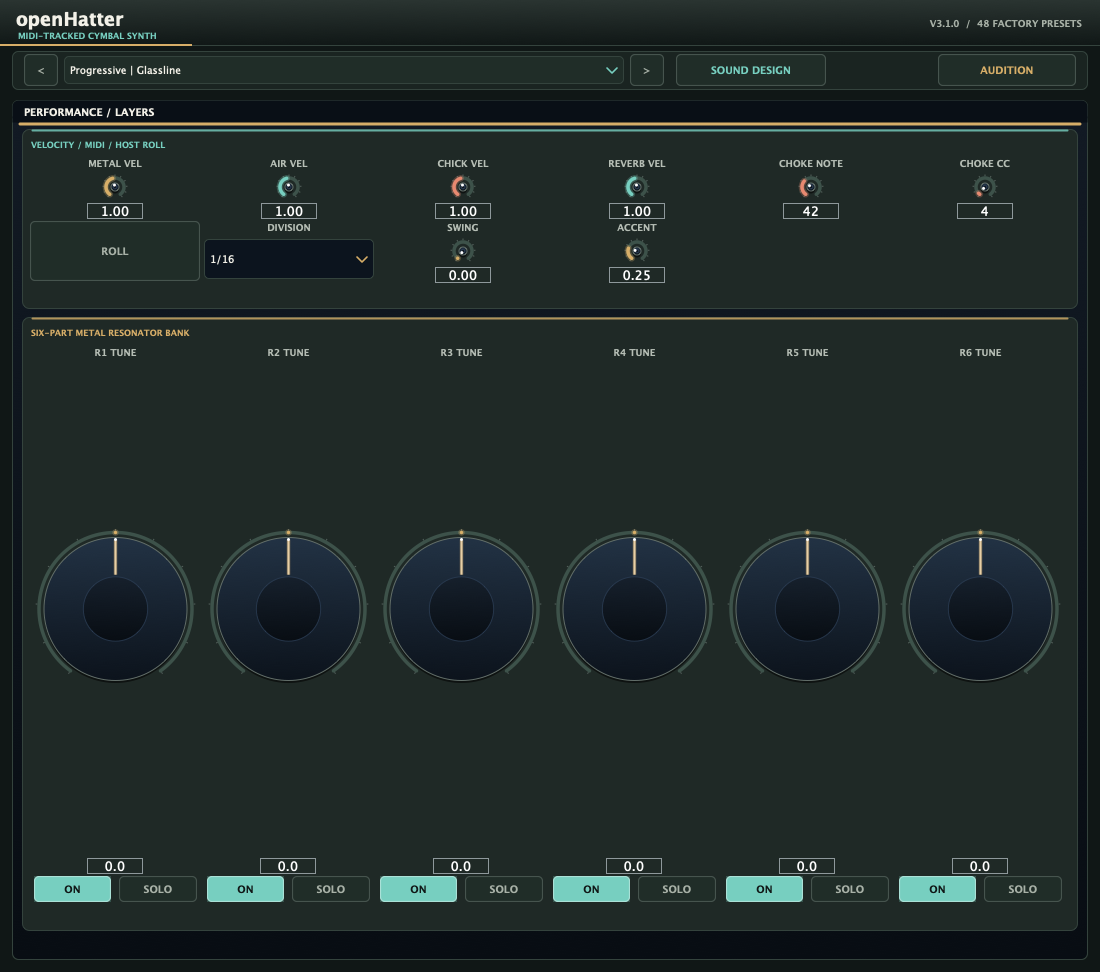
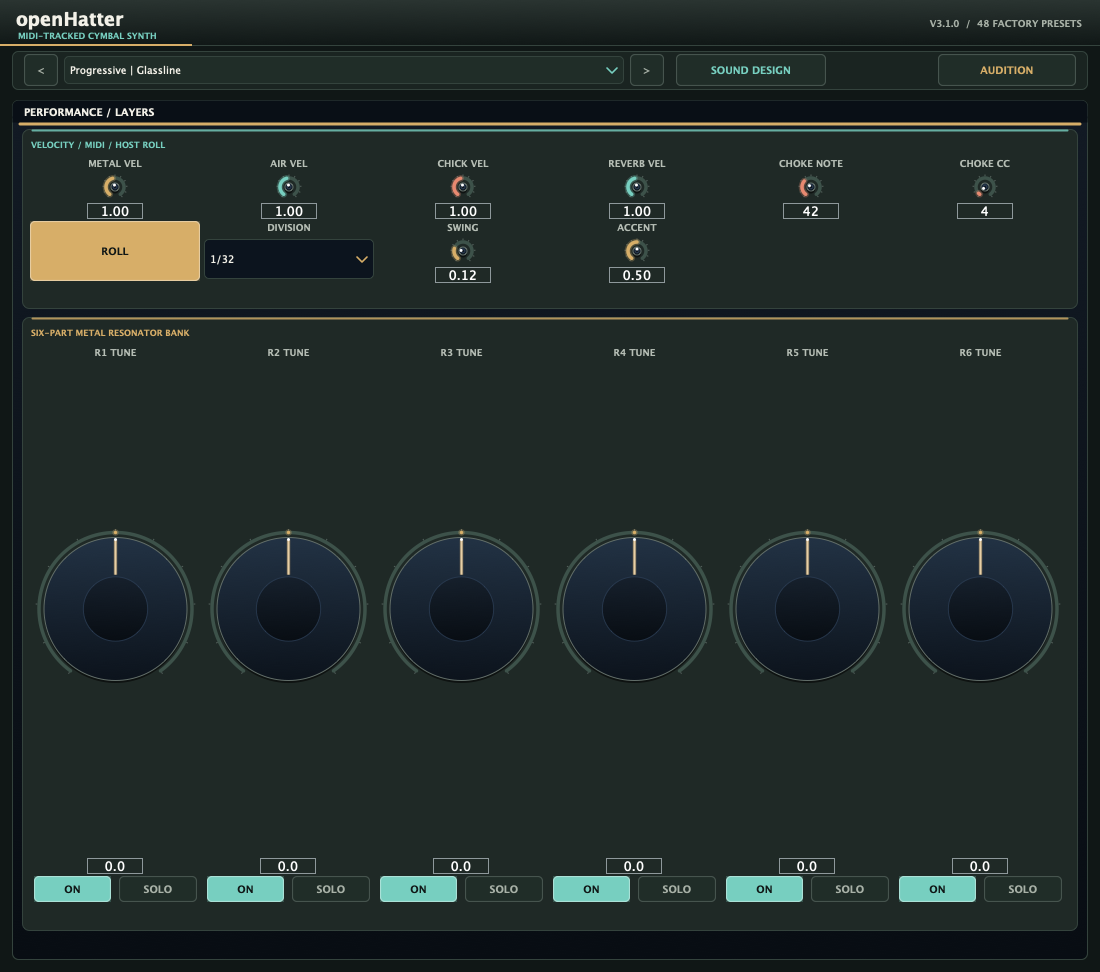
Fix reverse roll callback realtime processing

Changed region(s): [[0.0, 0.216, 0.1855, 0.3086], [0.4018, 0.2778, 0.4327, 0.3086]]

diff --git a/Source/Core/HatEngine.cpp b/Source/Core/HatEngine.cpp
@@ -165,8 +165,9 @@ void HatEngine::prepare(double sampleRate) {
     limiter_.prepare(sampleRate);
 
     const int maxReverseSamples = static_cast<int>(sampleRate * 2.0);
-    reverseBufferL_.assign(maxReverseSamples, 0.0f);
-    reverseBufferR_.assign(maxReverseSamples, 0.0f);
+    const int reverseHistoryCapacity = maxReverseSamples * 2;
+    reverseHistoryL_.assign(reverseHistoryCapacity, 0.0f);
+    reverseHistoryR_.assign(reverseHistoryCapacity, 0.0f);
     reset();
 }
 
@@ -176,9 +177,15 @@ void HatEngine::reset() noexcept {
     distR_.reset();
     compressor_.reset();
     limiter_.reset();
+    reverseHistoryWriteIndex_ = 0;
+    reverseHistorySamplesAvailable_ = 0;
+    reverseSourceStart_ = 0;
+    reverseSourceSamplesAvailable_ = 0;
     reversePlayHead_ = -1;
     reverseDuration_ = 0;
+    reverseMix_ = 0.5f;
     isReversing_ = false;
+    reverseCallbackWorkUnits_ = 0;
     rollActive_ = false;
     rollStep_ = 0;
     nextRollPpq_ = 0.0;
@@ -252,26 +259,17 @@ void HatEngine::triggerHat(
 
     const bool engageReverse = shouldTriggerReverse(settings.effects.reverseMode, reverseCue, samplePpq, beatsPerBar);
     if (engageReverse && settings.effects.reverseMode != ReverseSyncMode::Off) {
-        reverseDuration_ = computeSyncedReverseSamples(settings.effects.reverseMode, samplePpq, bpm, beatsPerBar, sampleRate_);
-        reverseDuration_ = std::min(reverseDuration_, static_cast<int>(reverseBufferL_.size()));
-
-        std::vector<float> forwardL, forwardR;
-        synth_.renderMidiBlock(forwardL, forwardR, settings.synth, velocity, midiNoteNumber);
-
-        const int copyCount = std::min(reverseDuration_, static_cast<int>(forwardL.size()));
-        for (int i = 0; i < reverseDuration_; ++i) {
-            if (i < copyCount) {
-                const int srcIdx = copyCount - 1 - i;
-                const float ramp = static_cast<float>(i) / static_cast<float>(reverseDuration_);
-                reverseBufferL_[i] = forwardL[srcIdx] * ramp * settings.effects.reverseMix;
-                reverseBufferR_[i] = forwardR[srcIdx] * ramp * settings.effects.reverseMix;
-            } else {
-                reverseBufferL_[i] = 0.0f;
-                reverseBufferR_[i] = 0.0f;
-            }
-        }
-        reversePlayHead_ = 0;
-        isReversing_ = true;
+        const int syncSamples = computeSyncedReverseSamples(
+            settings.effects.reverseMode, samplePpq, bpm, beatsPerBar, sampleRate_);
+        const int maxReverseSamples = static_cast<int>(reverseHistoryL_.size()) / 2;
+        reverseDuration_ = std::min(syncSamples, maxReverseSamples);
+        reverseSourceStart_ = reverseHistoryWriteIndex_;
+        reverseSourceSamplesAvailable_ = std::min(reverseHistorySamplesAvailable_, maxReverseSamples);
+        reverseMix_ = settings.effects.reverseMix;
+        isReversing_ = reverseDuration_ > 0 && reverseSourceSamplesAvailable_ > 0;
+        reversePlayHead_ = isReversing_ ? 0 : -1;
+        if (isReversing_)
+            ++reverseCallbackWorkUnits_;
     }
 
     synth_.triggerMidi(settings.synth, velocity, midiNoteNumber);
@@ -412,9 +410,28 @@ void HatEngine::process(
             if (layerOutputs->reverbRight != nullptr) layerOutputs->reverbRight[sample] = 0.0f;
         }
 
+        // Save only the forward synth signal. Reverse playback never feeds back
+        // into this history, and each callback sample performs fixed work.
+        reverseHistoryL_[reverseHistoryWriteIndex_] = sL;
+        reverseHistoryR_[reverseHistoryWriteIndex_] = sR;
+        ++reverseHistoryWriteIndex_;
+        if (reverseHistoryWriteIndex_ == static_cast<int>(reverseHistoryL_.size()))
+            reverseHistoryWriteIndex_ = 0;
+        reverseHistorySamplesAvailable_ = std::min(
+            reverseHistorySamplesAvailable_ + 1, static_cast<int>(reverseHistoryL_.size()));
+
         if (reversePlayHead_ >= 0 && reversePlayHead_ < reverseDuration_) {
-            sL += reverseBufferL_[reversePlayHead_];
-            sR += reverseBufferR_[reversePlayHead_];
+            if (reverseSourceSamplesAvailable_ > 0) {
+                const int age = static_cast<int>(
+                    (static_cast<int64_t>(reversePlayHead_) * reverseSourceSamplesAvailable_) / reverseDuration_) + 1;
+                int sourceIndex = reverseSourceStart_ - age;
+                if (sourceIndex < 0)
+                    sourceIndex += static_cast<int>(reverseHistoryL_.size());
+                const float ramp = static_cast<float>(reversePlayHead_) / static_cast<float>(reverseDuration_);
+                sL += reverseHistoryL_[sourceIndex] * ramp * reverseMix_;
+                sR += reverseHistoryR_[sourceIndex] * ramp * reverseMix_;
+            }
+            ++reverseCallbackWorkUnits_;
             reversePlayHead_++;
         } else {
             reversePlayHead_ = -1;

diff --git a/Tests/HatEngineTests.cpp b/Tests/HatEngineTests.cpp
@@ -1,6 +1,35 @@
 #include "HatEngine.h"
 #include <catch2/catch_test_macros.hpp>
+#include <atomic>
 #include <cmath>
+#include <cstdlib>
+#include <new>
+
+namespace {
+std::atomic<uint64_t> callbackAllocations { 0 };
+thread_local bool countCallbackAllocations = false;
+}
+
+void* operator new(std::size_t size) {
+    if (countCallbackAllocations)
+        callbackAllocations.fetch_add(1, std::memory_order_relaxed);
+    if (void* memory = std::malloc(size == 0 ? 1 : size))
+        return memory;
+    throw std::bad_alloc();
+}
+
+void* operator new[](std::size_t size) {
+    if (countCallbackAllocations)
+        callbackAllocations.fetch_add(1, std::memory_order_relaxed);
+    if (void* memory = std::malloc(size == 0 ? 1 : size))
+        return memory;
+    throw std::bad_alloc();
+}
+
+void operator delete(void* memory) noexcept { std::free(memory); }
+void operator delete[](void* memory) noexcept { std::free(memory); }
+void operator delete(void* memory, std::size_t) noexcept { std::free(memory); }
+void operator delete[](void* memory, std::size_t) noexcept { std::free(memory); }
 
 using namespace openhatter::core;
 
@@ -92,6 +121,49 @@ TEST_CASE("HatEngine follows host PPQ for enabled 1/16-note rolls", "[core][engi
     engine.process(settings, transport, triggers, channels, 2, static_cast<int>(left.size()));
 
     REQUIRE(engine.triggerSerial() == 8);
+}
+
+TEST_CASE("HatEngine keeps 1/32 rolls with synced reverse allocation-free and bounded", "[core][engine][performance][realtime]") {
+    HatEngine engine;
+    engine.prepare(48000.0);
+    EngineSettings settings;
+    settings.rollEnabled = true;
+    settings.rollDivision = 2;
+    settings.effects.reverseMode = ReverseSyncMode::HalfBeat;
+    settings.effects.reverseMix = 1.0f;
+    Transport transport;
+    transport.bpm = 120.0;
+    transport.ppqPosition = 0.0;
+
+    constexpr int sampleCount = 96000;
+    const std::array<MidiTrigger, 1> triggers {{
+        { .sampleOffset = 0, .noteNumber = 46, .velocity = 0.8f }
+    }};
+    std::vector<float> left(sampleCount, 0.0f);
+    std::vector<float> right(sampleCount, 0.0f);
+    float* channels[2] = { left.data(), right.data() };
+
+    HatEngine dryReference;
+    dryReference.prepare(48000.0);
+    auto drySettings = settings;
+    drySettings.effects.reverseMode = ReverseSyncMode::Off;
+    std::vector<float> dryLeft(sampleCount, 0.0f);
+    std::vector<float> dryRight(sampleCount, 0.0f);
+    float* dryChannels[2] = { dryLeft.data(), dryRight.data() };
+    dryReference.process(drySettings, transport, triggers, dryChannels, 2, sampleCount);
+
+    callbackAllocations.store(0, std::memory_order_relaxed);
+    countCallbackAllocations = true;
+    engine.process(settings, transport, triggers, channels, 2, sampleCount);
+    countCallbackAllocations = false;
+
+    REQUIRE(engine.triggerSerial() == 32);
+    REQUIRE(callbackAllocations.load(std::memory_order_relaxed) == 0);
+    REQUIRE(engine.reverseCallbackWorkUnits() > 0);
+    REQUIRE(engine.reverseCallbackWorkUnits() <= sampleCount + engine.triggerSerial());
+
+    constexpr int reverseCheckSample = 5999;
+    REQUIRE(std::abs(left[reverseCheckSample] - dryLeft[reverseCheckSample]) > 0.000001f);
 }
 
 TEST_CASE("HatEngine resumes a paused roll at the next host grid step", "[core][engine][performance]") {

diff --git a/Tests/PluginTests.cpp b/Tests/PluginTests.cpp
@@ -4,6 +4,7 @@
 #include "Presets.h"
 #include <catch2/catch_test_macros.hpp>
 #include <cmath>
+#include <cstdlib>
 
 TEST_CASE("OpenHatterProcessor instantiates with valid parameters", "[plugin]") {
     OpenHatterProcessor processor;
@@ -262,6 +263,18 @@ TEST_CASE("OpenHatterEditor renders every page in both control modes", "[plugin]
     OpenHatterProcessor processor;
     processor.prepareToPlay(48000.0, 512);
 
+    if (std::getenv("OPENHATTER_PERFORMANCE_CAPTURE") != nullptr) {
+        const auto setCaptureValue = [&processor](const char* id, float value) {
+            auto* parameter = processor.parameters.getParameter(id);
+            REQUIRE(parameter != nullptr);
+            parameter->setValueNotifyingHost(parameter->convertTo0to1(value));
+        };
+        setCaptureValue(openhatter::params::kRollEnabled, 1.0f);
+        setCaptureValue(openhatter::params::kRollDivision, 2.0f);
+        setCaptureValue(openhatter::params::kRollSwing, 0.12f);
+        setCaptureValue(openhatter::params::kRollAccent, 0.5f);
+    }
+
     std::unique_ptr<juce::AudioProcessorEditor> editor(processor.createEditor());
     REQUIRE(editor != nullptr);
     REQUIRE(editor->getWidth() == 1100);
@@ -278,6 +291,20 @@ TEST_CASE("OpenHatterEditor renders every page in both control modes", "[plugin]
             REQUIRE(snapshot.isValid());
             REQUIRE(snapshot.getWidth() == 1100);
             REQUIRE(snapshot.getHeight() == 972);
+
+            if (page == 1 && mode == 1) {
+                if (const auto* capturePath = std::getenv("OPENHATTER_PERFORMANCE_CAPTURE")) {
+                    juce::File outputFile(capturePath);
+                    REQUIRE(outputFile.getParentDirectory().createDirectory().wasOk());
+                    if (outputFile.exists())
+                        REQUIRE(outputFile.deleteFile());
+                    auto output = outputFile.createOutputStream();
+                    REQUIRE(output != nullptr);
+                    juce::PNGImageFormat png;
+                    REQUIRE(png.writeImageToStream(snapshot, *output));
+                    output->flush();
+                }
+            }
         }
     }
 }

diff --git a/Source/Core/HatEngine.h b/Source/Core/HatEngine.h
@@ -119,6 +119,7 @@ public:
     [[nodiscard]] float currentHatProgress() const noexcept { return currentHatProgress_; }
     [[nodiscard]] uint32_t triggerSerial() const noexcept { return triggerSerial_; }
     [[nodiscard]] bool isReversing() const noexcept { return isReversing_; }
+    [[nodiscard]] uint64_t reverseCallbackWorkUnits() const noexcept { return reverseCallbackWorkUnits_; }
 
 private:
     void triggerHat(
@@ -141,12 +142,20 @@ private:
 
     HatWavCache wavCache_;
 
-    // Reverse swell buffer
-    std::vector<float> reverseBufferL_;
-    std::vector<float> reverseBufferR_;
+    // Reversed audio is read from preallocated dry-synth history. The ring is
+    // twice the maximum reverse duration so its reader cannot collide with the
+    // writer during a reverse pass.
+    std::vector<float> reverseHistoryL_;
+    std::vector<float> reverseHistoryR_;
+    int reverseHistoryWriteIndex_ = 0;
+    int reverseHistorySamplesAvailable_ = 0;
+    int reverseSourceStart_ = 0;
+    int reverseSourceSamplesAvailable_ = 0;
     int reversePlayHead_ = -1;
     int reverseDuration_ = 0;
+    float reverseMix_ = 0.5f;
     bool isReversing_ = false;
+    uint64_t reverseCallbackWorkUnits_ = 0;
 
     bool rollActive_ = false;
     int rollNoteNumber_ = 66;

diff --git a/README.md b/README.md
@@ -24,7 +24,7 @@ The note monitor reports the most recent incoming note. **Audition** plays that 
 
 The **Performance** page has independent velocity curves for metal, air, chick, and reverb, plus six resonator tuning, mute, and solo controls. Enable **Roll** to repeat the most recent MIDI hit on host-synced eighth, sixteenth, or thirty-second notes. Swing delays alternating steps and accent raises every fourth hit. Rolls pause while the host transport is stopped and stop when the configured choke note or CC is received.
 
-![openHatter performance controls](assets/openHatter-performance.png)
+![openHatter performance page with independent velocity curves, resonator controls, MIDI choke, and host-synced rolls](assets/openHatter-performance.png)
 
 Four optional stereo outputs expose the metal, air, chick, and reverb stems. They are disabled by default to preserve the usual stereo output layout. Stems include the master output gain and CC 7 level, but bypass the shared exciter, compressor, limiter, and width processing.
 

diff --git a/docs/SCREENSHOTS.md b/docs/SCREENSHOTS.md
@@ -1,3 +1,5 @@
 # openHatter v3 screenshots
 
 [The v3 editor](../assets/openHatter-v3.png) was captured from the built macOS Standalone app at its default 1100 × 972 editor size. The MIDI monitor is idle because no MIDI keyboard was connected during capture. All synthesis and effect controls fit on the single screen.
+
+[The Performance page](../assets/openHatter-performance.png) is captured from the native JUCE editor snapshot in `OpenHatterEditor renders every page in both control modes`. Regenerate it after a UI update with `OPENHATTER_PERFORMANCE_CAPTURE=assets/openHatter-performance.png build-task/openhatter_plugin_tests "[plugin][gui]"`. It shows the layer velocity curves, resonator controls, MIDI choke settings, and an enabled host-synced 1/32 roll.
